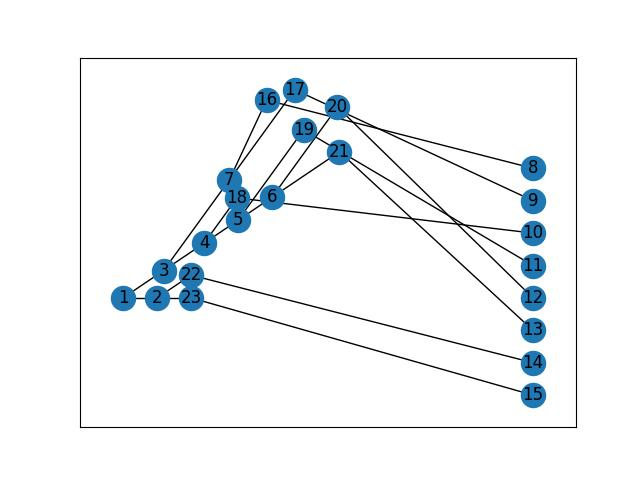
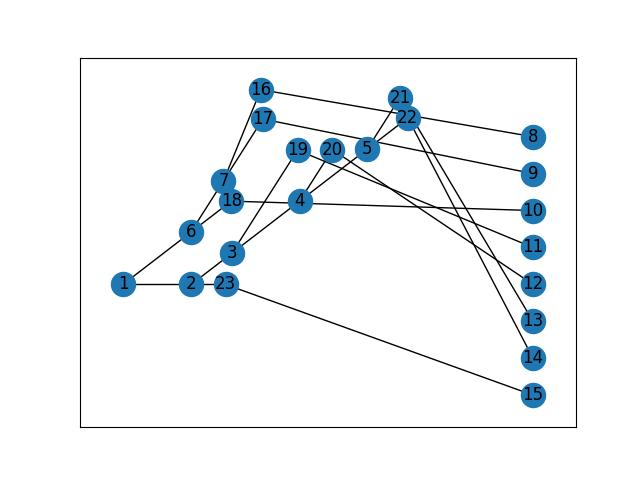
interact

Changed region(s): [[0.1562, 0.1562, 0.875, 0.8125]]

diff --git a/main.py b/main.py
@@ -25,10 +25,11 @@ class Tree:
     def __init__(self, n, c):
         self.n = n
         self.choice = c
-        self.preorder = []
-        self.inorder = []
+        self.order = []
+        self.preorder = [1, 2, 3, 4, 5, 6, 7]
+        self.inorder = [4, 5, 3, 2, 6, 1, 7]
         self.root = None
-        self.direction_list = []
+        self.direction_list = [1, 1, -1, -1, 1, -1, 1]
         self.direction_index = []
         self.comb = []
 
@@ -53,14 +54,13 @@ class Tree:
         # init order
         if self.n:
             for i in range(1, self.n+1):
-                self.preorder.append(i)
-            self.inorder = copy(self.preorder)
-        # init direction
+                self.order.append(i)
+
         for i in range(self.n):
-            self.direction_list.append(1)
             if not i:
                 continue
             self.direction_index.append(i)
+
         # init station track coordinate
         a = (self.n + 1) // 2 * self.station_track_space
         for i in range(self.n+1):
@@ -139,7 +139,10 @@ class Tree:
 
     def plan_generator(self):
         flag = True
-        self.order_generator()
+        if self.preorder is None and self.inorder is None:
+            self.preorder = copy(self.order)
+            self.inorder = copy(self.order)
+            self.order_generator()
 
         while flag:
             print('inorder:' + str(self.inorder))
@@ -149,6 +152,7 @@ class Tree:
                 if self.root:
                     flag = False
             except:
+                print('ERROR: inorder error, could not generate a plan')
                 self.order_generator()
                 continue
 
@@ -268,6 +272,20 @@ class Tree:
             self.graph_init(G, node.right, pos=pos, layer=r_layer)
         return G, pos
 
+    def node_direction_init(self,direction_list):
+        # node direction init
+        seed = self.root
+        queue = [seed]
+        for k in queue:
+            if k.is_virtual:
+                continue
+            # print(k.value)
+            k.direction = direction_list[k.value - 1]
+            if k.left:
+                queue.append(k.left)
+            if k.right:
+                queue.append(k.right)
+
     def main(self):
         flag = True
         # plan layer filter
@@ -285,35 +303,44 @@ class Tree:
         # direction generator & controller
         self.comb = self.direction_generator()
         name = 0
-        for i in range(self.choice):
-            name += 1
-            c = choice(self.comb)
-            time.sleep(0.1)
-            print('choice:'+str(c))
-            direction_list = copy(self.direction_list)
-            for j in c:
-                direction_list[j] = -1
-            print('direction_list:'+str(direction_list))
-        # node direction init
-            seed = self.root
-            queue = [seed]
-            for k in queue:
-                if k.is_virtual:
+
+        # init direction
+        if not self.direction_list:
+            for i in range(self.n):
+                self.direction_list.append(1)
+                if not i:
                     continue
-                # print(k.value)
-                k.direction = direction_list[k.value-1]
-                if k.left:
-                    queue.append(k.left)
-                if k.right:
-                    queue.append(k.right)
-        # direction filter
-            if self.direction_filter():
-                continue
-        # distance & angle & coordinate calculator
+                self.direction_index.append(i)
+
+            for i in range(self.choice):
+                name += 1
+                c = choice(self.comb)
+                time.sleep(0.1)
+                print('choice:'+str(c))
+                direction_list = copy(self.direction_list)
+                for j in c:
+                    direction_list[j] = -1
+                print('direction_list:'+str(direction_list))
+
+                self.node_direction_init(direction_list)
+            # direction filter
+                if self.direction_filter():
+                    continue
+            # distance & angle & coordinate calculator
+                self.coordinate_calculater(self.root)
+                # draw track
+                self.draw_track(name)
+                print(self.station_track_coordinate)
+        else:
+            direction_list = copy(self.direction_list)
+            print('direction_list:' + str(direction_list))
+            self.node_direction_init(direction_list)
+            # distance & angle & coordinate calculator
             self.coordinate_calculater(self.root)
             # draw track
             self.draw_track(name)
             print(self.station_track_coordinate)
+
 
 
 def printTree(root):
@@ -367,7 +394,7 @@ class draw():
 
 
 if __name__ == "__main__":
-    s = Tree(7, 30)
+    s = Tree(7, 5)
     s.main()
     printTree(s.root)
     d = draw(s.root)
